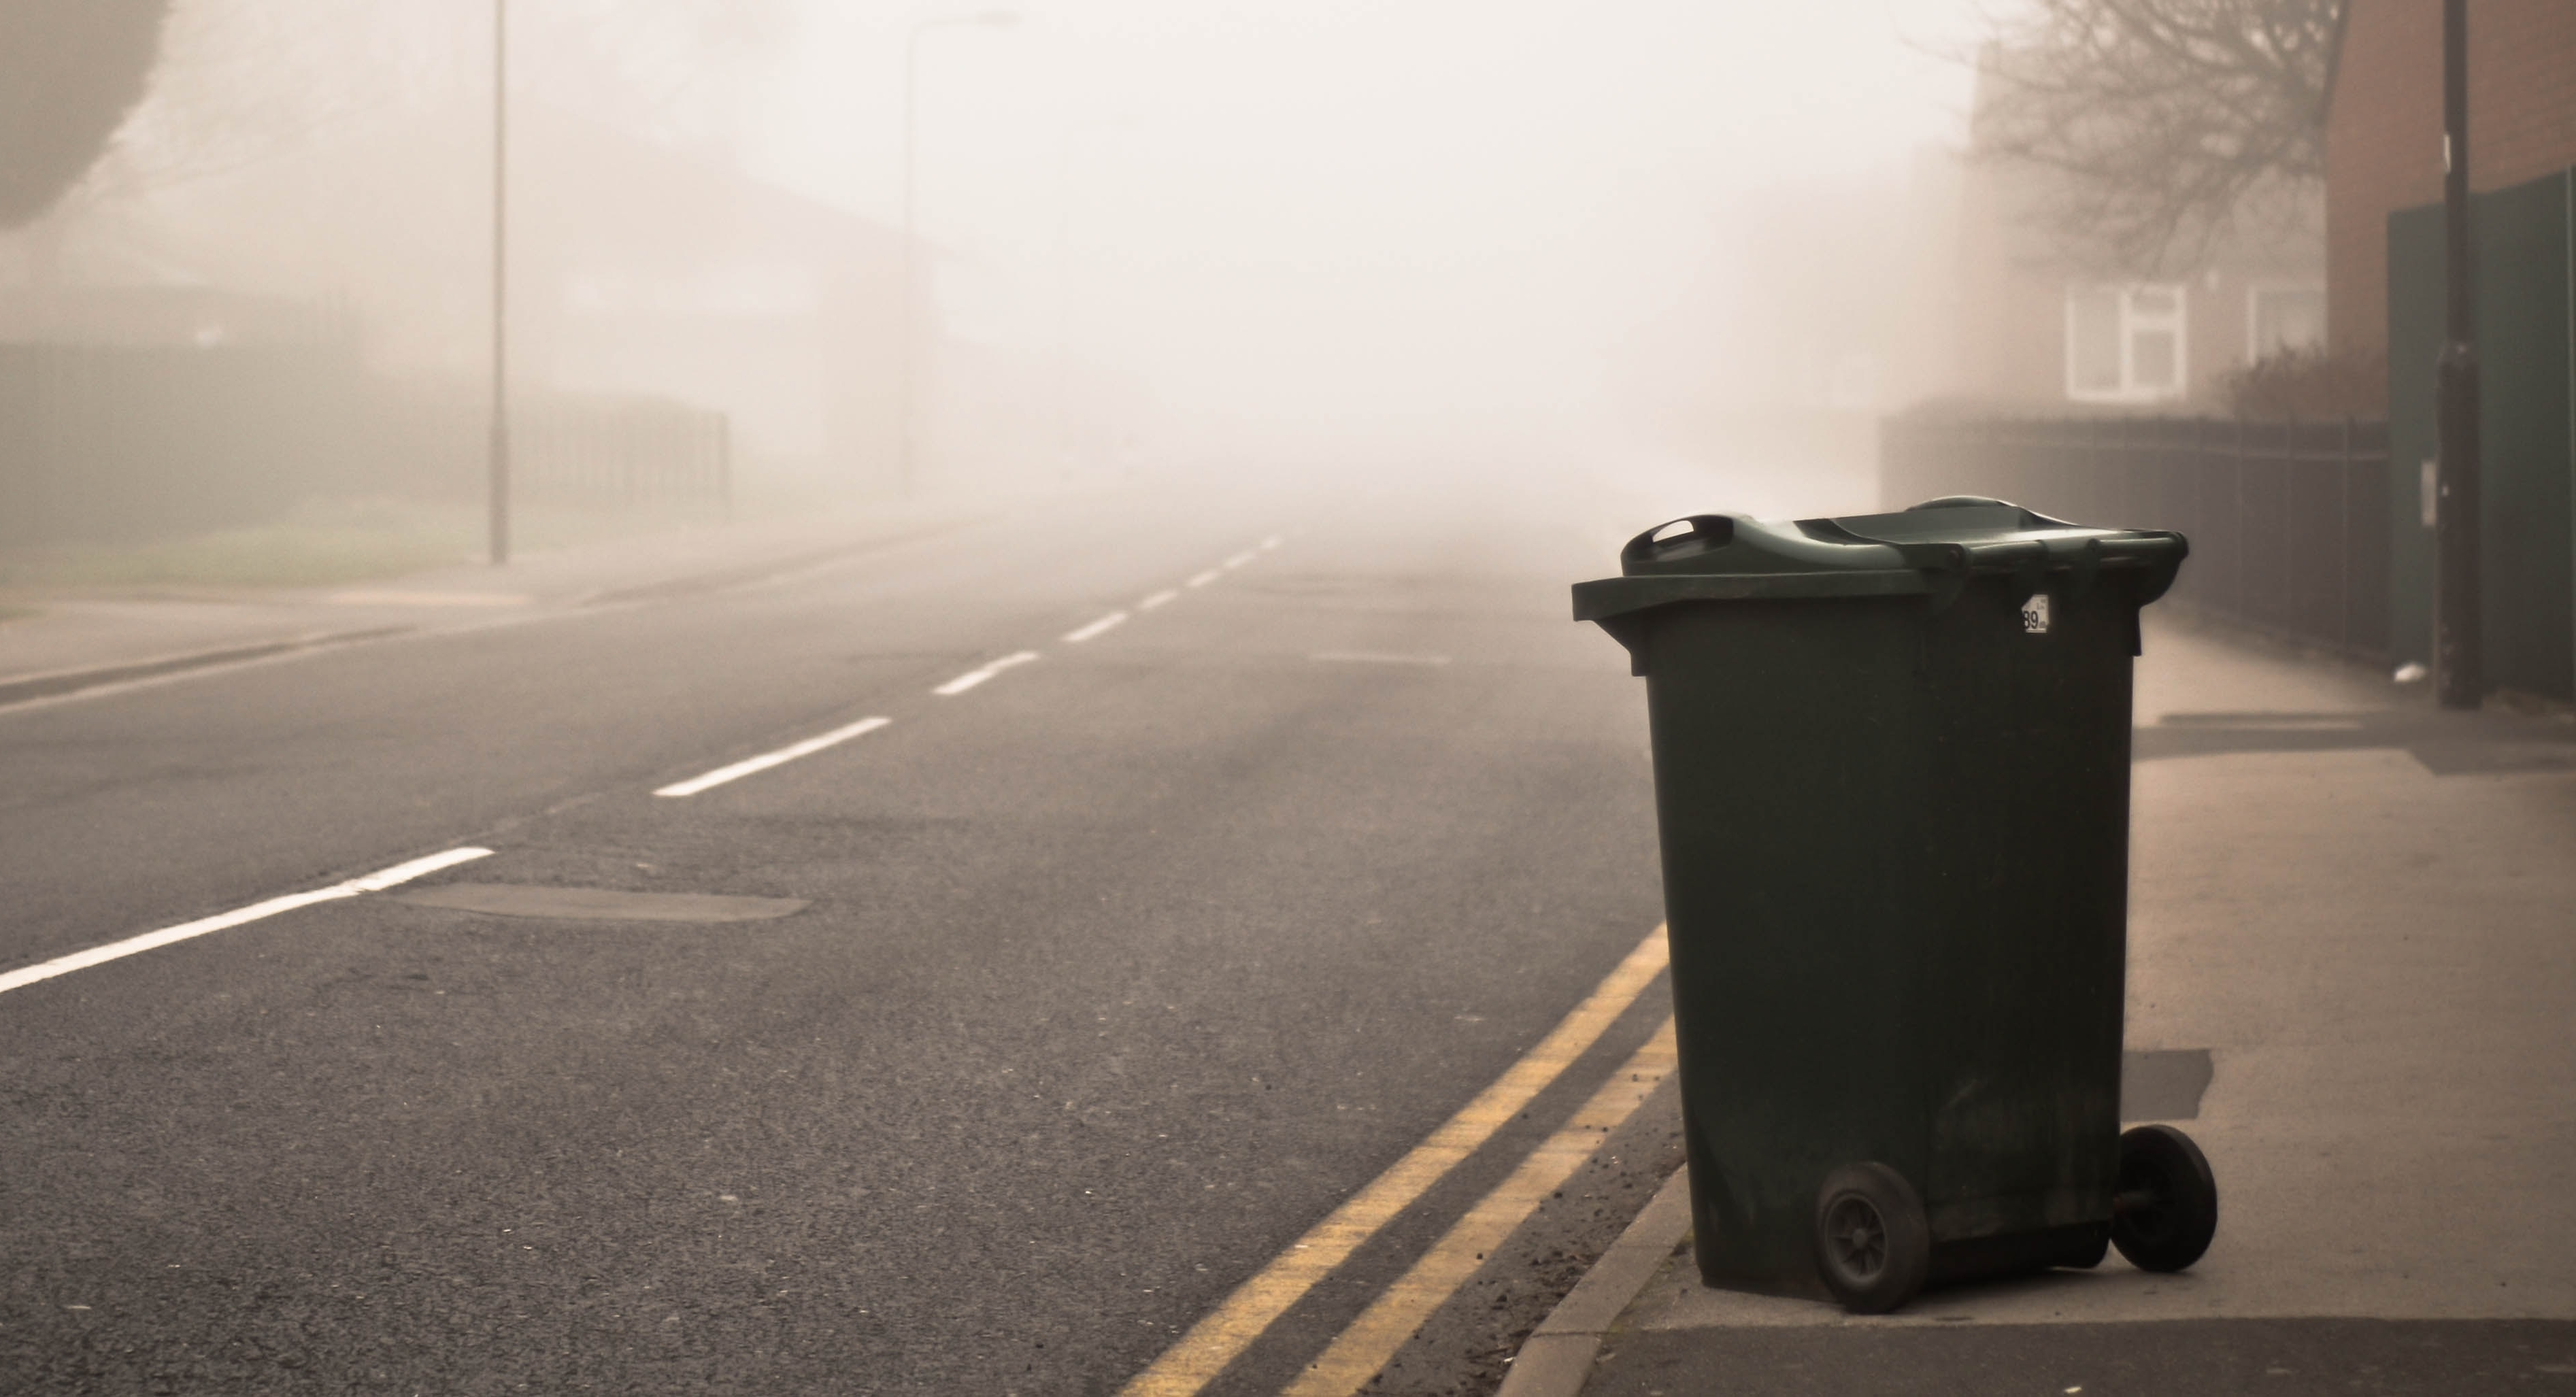
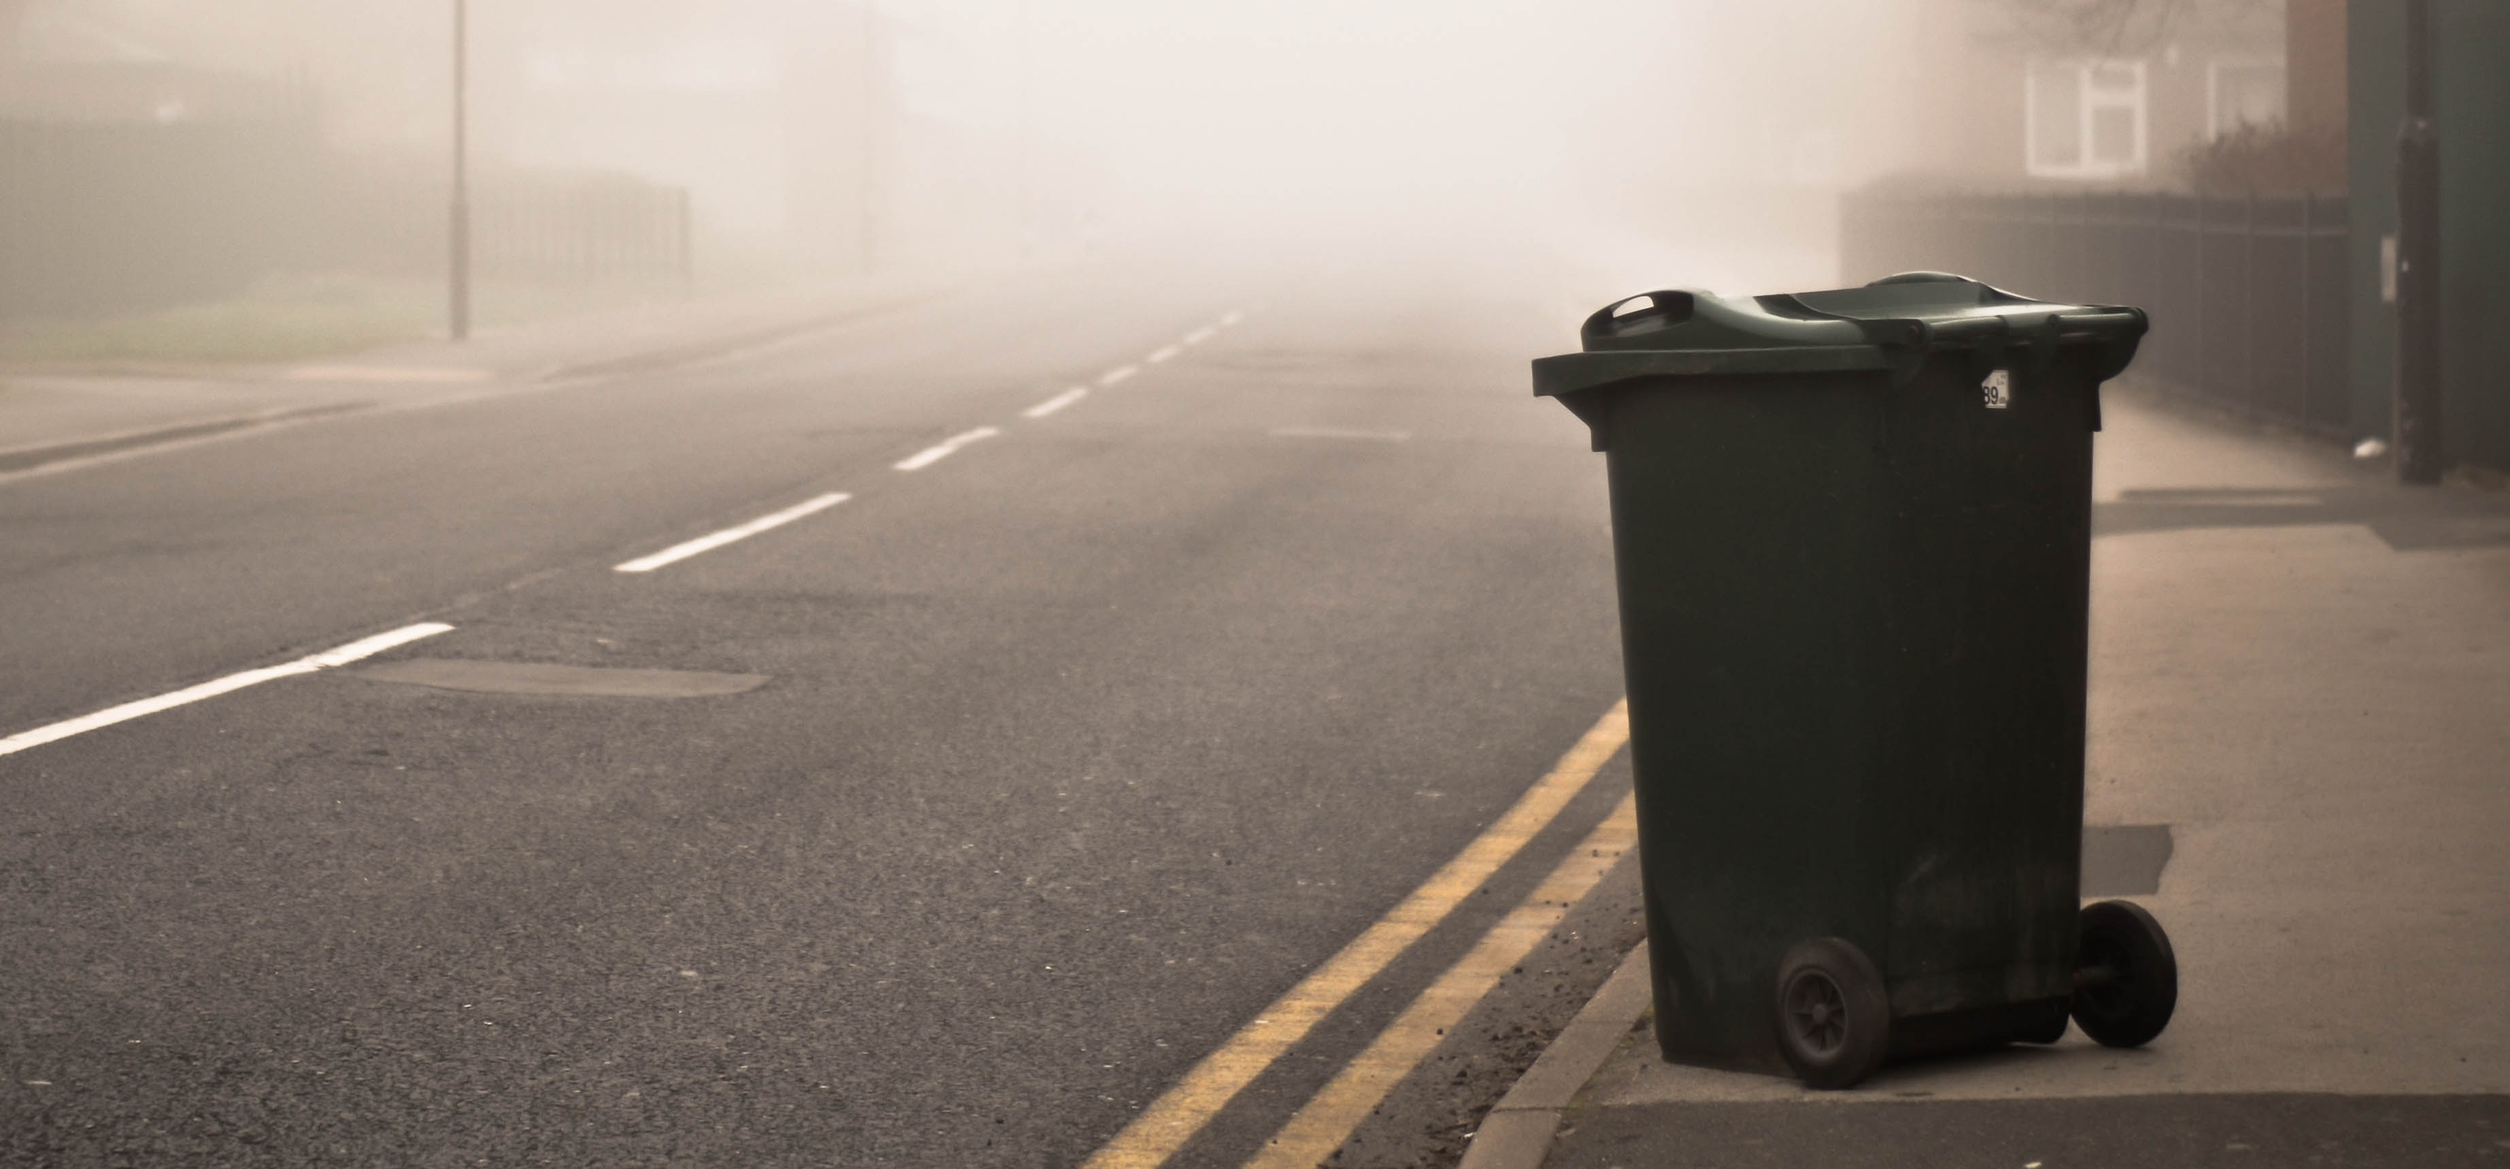
carousel images format

diff --git a/Neighborly_3/Content/Site.css b/Neighborly_3/Content/Site.css
@@ -38,9 +38,12 @@ font-family: 'Muli', sans-serif;
     border-bottom-color: #0A2463;
 }
 
-/*.nav.navbar-nav.navbar-right li {
-    color: #B8336A;
-}*/
+.navbar {
+    position: relative;
+    min-height: 50px;
+    margin-bottom: 0px;
+    border: 1px solid transparent;
+}
 
 
 .brandLogo {
@@ -153,37 +156,19 @@ button.navbar-toggle {
 
 
 /*-----------------Carousel Styling----------------*/
-div.carousel-inner.carouselPhoto1 {
-    max-height: 500px;
-    background-image: url('Images/autumn-mott-15013.jpg');
-    background-size: cover;
-    background-repeat: no-repeat;
-}
-div.carousel-inner.carouselPhoto2 {
-    max-height: 500px;
-    background-image: url('Images/daniel-watson-75022.jpg');
-    background-size: cover;
-    background-repeat: no-repeat;
-}
-div.carousel-inner.carouselPhoto3 {
-    max-height: 500px;
-    background-image: url('Images/filip-mroz-183687.jpg');
-    background-size: cover;
-    background-repeat: no-repeat;
-}
-div.carousel-inner.carouselPhoto4 {
-    max-height: 500px;
-    background-image: url('Images/markus-spiske-104913.jpg');
-    background-size: cover;
-    background-repeat: no-repeat;
-}
-div.carouselPhoto5 {
-    max-height: 500px;
-    background-image: url('Images/shane-rounce-268118.jpg');
-    background-size: cover;
-    background-repeat: no-repeat;
+
+.container-fluid.carouselFormat {
+    margin: 0px;
+    padding-right: 0px;
+    padding-left: 0px;
 }
 
+.carousel .item img {
+    max-height: 450px;
+    min-width: 100%;
+    overflow:hidden;
+
+}
 
 .btn.ask {
     background: #48639C;
